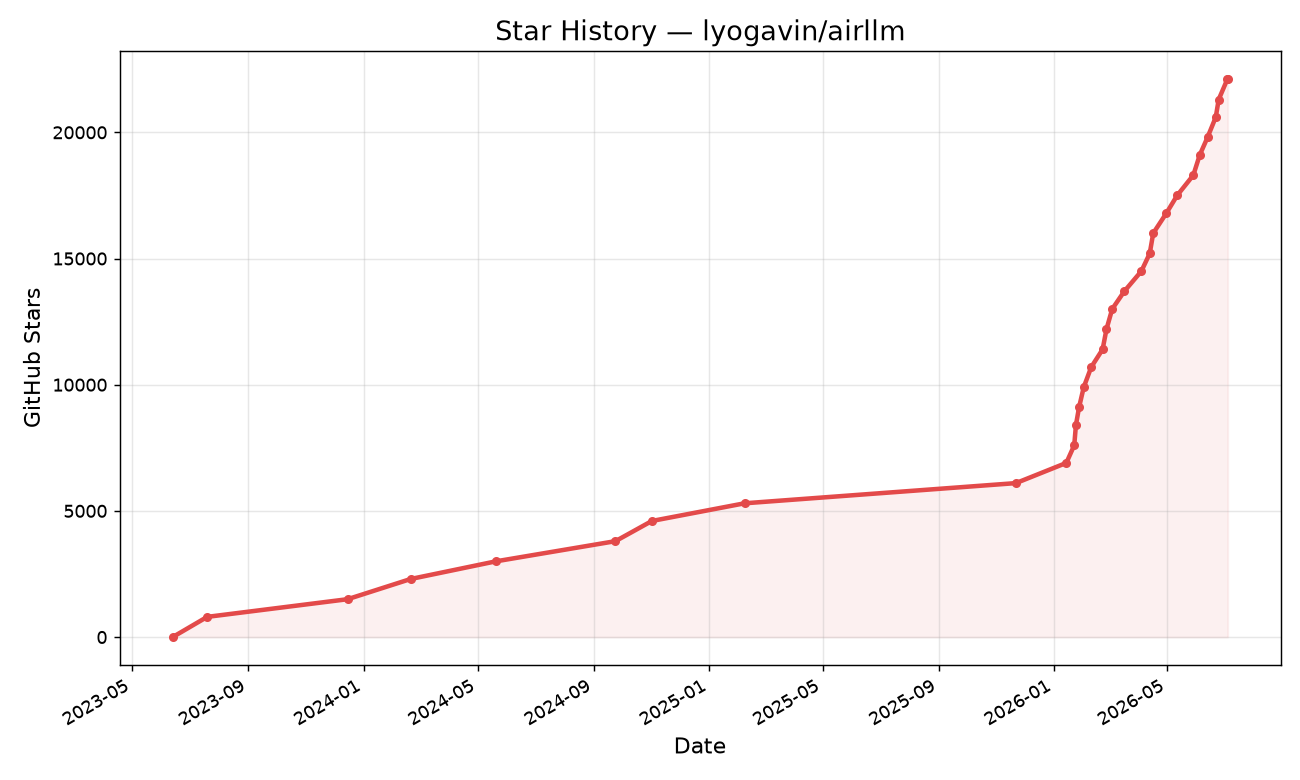
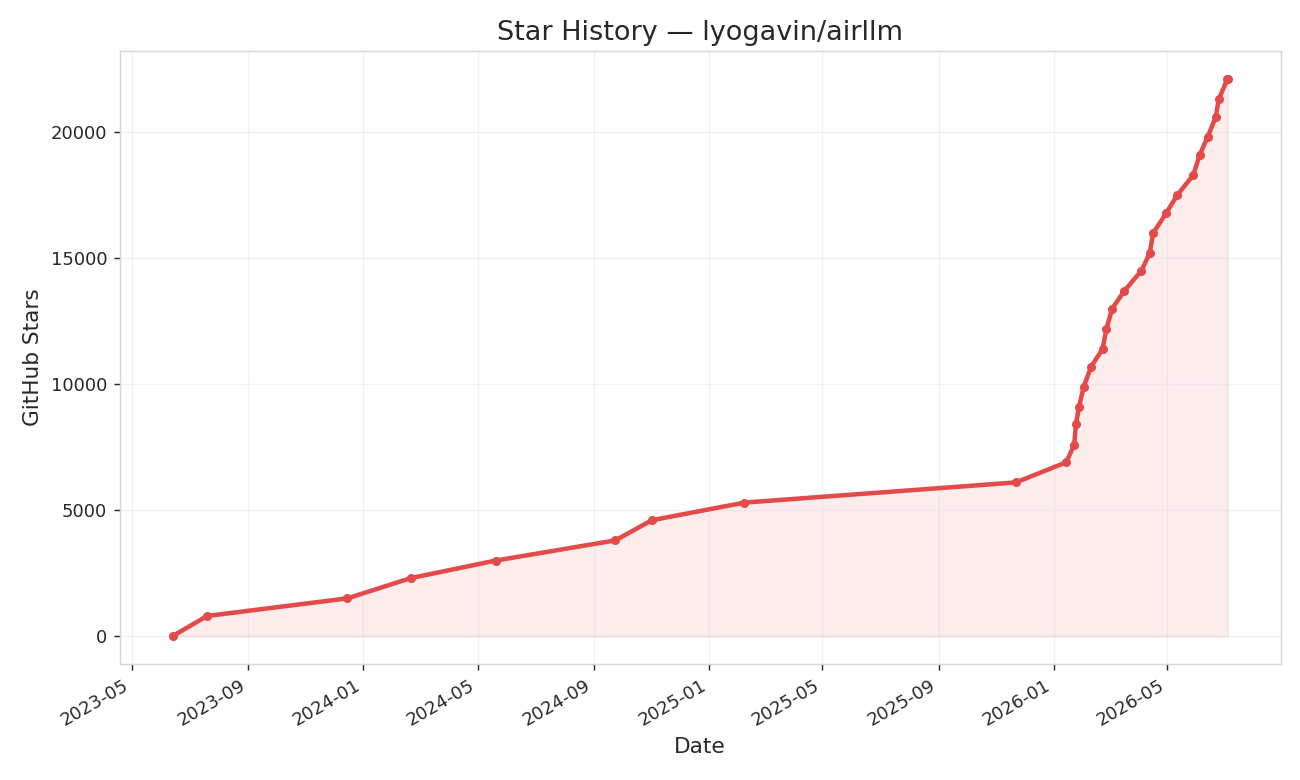
Add dark-mode star history chart with theme auto-switch
Generate light and dark variants and use a <picture> element so the README chart follows the viewer's GitHub theme. The daily workflow now regenerates both.

diff --git a/scripts/gen_star_history.py b/scripts/gen_star_history.py
@@ -7,7 +7,9 @@ so it works reliably for repos with tens of thousands of stars. Output is a PNG,
 always renders in GitHub markdown.
 
 Usage:
-    GITHUB_TOKEN=... python scripts/gen_star_history.py [owner/repo] [output.png]
+    GITHUB_TOKEN=... python scripts/gen_star_history.py [owner/repo] [output.png] [theme]
+
+theme is "light" (default) or "dark".
 """
 import datetime
 import json
@@ -18,9 +20,15 @@ import urllib.request
 
 REPO = sys.argv[1] if len(sys.argv) > 1 else os.environ.get("REPO", "lyogavin/airllm")
 OUT = sys.argv[2] if len(sys.argv) > 2 else "assets/star-history.png"
+THEME = (sys.argv[3] if len(sys.argv) > 3 else os.environ.get("THEME", "light")).lower()
 TOKEN = os.environ.get("GITHUB_TOKEN") or os.environ.get("GH_TOKEN")
 PER_PAGE = 100
 MAX_SAMPLES = 30
+
+THEMES = {
+    "light": {"bg": "#ffffff", "fg": "#24292f", "grid": "#d0d7de", "line": "#e34a4a"},
+    "dark": {"bg": "#0d1117", "fg": "#c9d1d9", "grid": "#30363d", "line": "#ff6b6b"},
+}
 
 
 def gh(url, accept="application/vnd.github+json"):
@@ -73,20 +81,27 @@ def main():
     xs = [d for d, _ in points]
     ys = [c for _, c in points]
 
-    plt.figure(figsize=(10, 6))
-    plt.plot(xs, ys, color="#e34a4a", linewidth=2.5, marker="o", markersize=4)
-    plt.fill_between(xs, ys, color="#e34a4a", alpha=0.08)
-    plt.title(f"Star History — {REPO}", fontsize=15)
-    plt.ylabel("GitHub Stars", fontsize=12)
-    plt.xlabel("Date", fontsize=12)
-    plt.grid(True, alpha=0.3)
-    plt.gca().xaxis.set_major_formatter(mdates.DateFormatter("%Y-%m"))
-    plt.gcf().autofmt_xdate()
-    plt.tight_layout()
+    c = THEMES.get(THEME, THEMES["light"])
+    fig, ax = plt.subplots(figsize=(10, 6))
+    fig.patch.set_facecolor(c["bg"])
+    ax.set_facecolor(c["bg"])
+
+    ax.plot(xs, ys, color=c["line"], linewidth=2.5, marker="o", markersize=4)
+    ax.fill_between(xs, ys, color=c["line"], alpha=0.10)
+    ax.set_title(f"Star History — {REPO}", fontsize=15, color=c["fg"])
+    ax.set_ylabel("GitHub Stars", fontsize=12, color=c["fg"])
+    ax.set_xlabel("Date", fontsize=12, color=c["fg"])
+    ax.grid(True, alpha=0.3, color=c["grid"])
+    ax.tick_params(colors=c["fg"])
+    for spine in ax.spines.values():
+        spine.set_color(c["grid"])
+    ax.xaxis.set_major_formatter(mdates.DateFormatter("%Y-%m"))
+    fig.autofmt_xdate()
+    fig.tight_layout()
 
     os.makedirs(os.path.dirname(OUT) or ".", exist_ok=True)
-    plt.savefig(OUT, dpi=130)
-    print(f"wrote {OUT}: {len(points)} points, {total} stars")
+    fig.savefig(OUT, dpi=130, facecolor=c["bg"])
+    print(f"wrote {OUT} ({THEME}): {len(points)} points, {total} stars")
 
 
 if __name__ == "__main__":

diff --git a/README.md b/README.md
@@ -59,7 +59,12 @@
 
 ## Star History
 
-[![Star History Chart](assets/star-history.png)](https://star-history.com/#lyogavin/airllm&Timeline)
+<a href="https://star-history.com/#lyogavin/airllm&Timeline">
+  <picture>
+    <source media="(prefers-color-scheme: dark)" srcset="assets/star-history-dark.png">
+    <img alt="Star History Chart" src="assets/star-history.png">
+  </picture>
+</a>
 
 ## Table of Contents
 